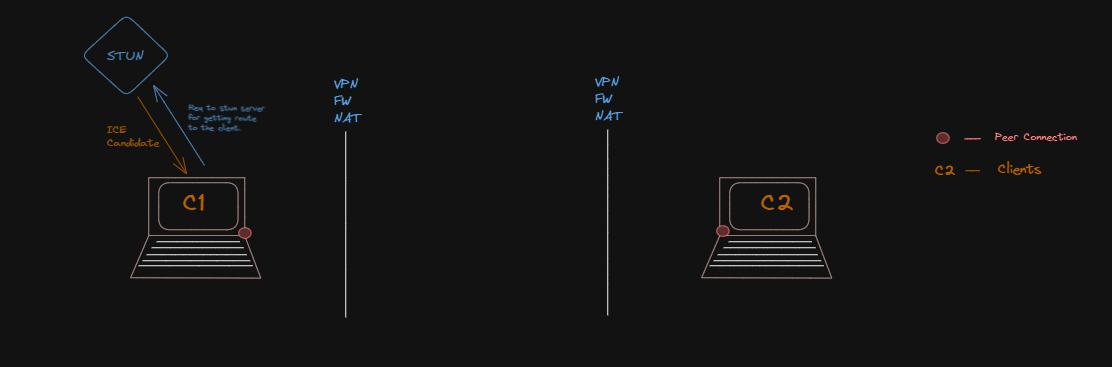
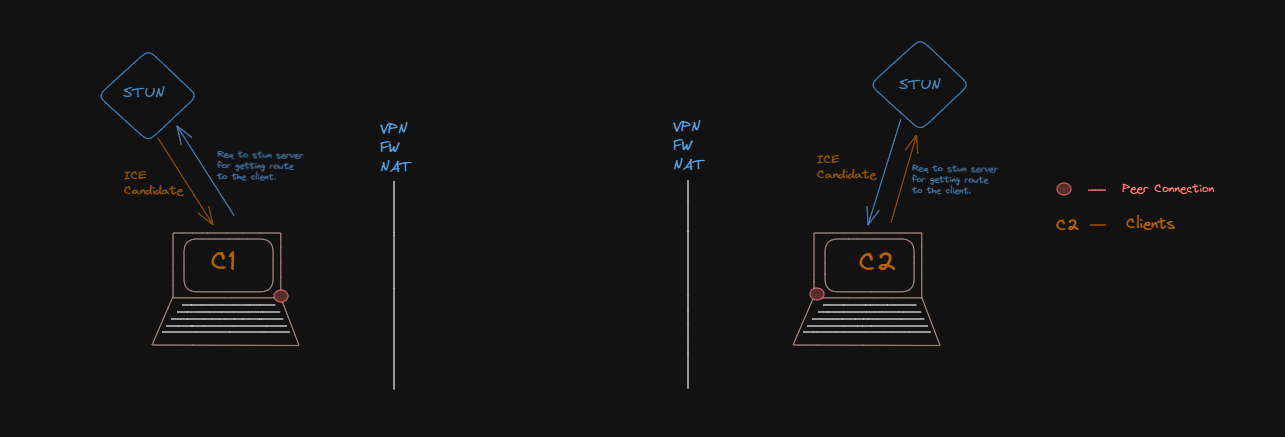
projects update 4

diff --git a/blogPosts/working-with-webRTC.md b/blogPosts/working-with-webRTC.md
@@ -5,14 +5,14 @@ slug: "working-with-webRTC"
 image: "webRTC-cover.jpg"
 excerpt: "An Introductory blog to Web Sockets - All you need to know to start working with web sockets."
 isFeatured: false
-isPublished: false
+isPublished: true
 ---
 
 ## 👋 Welcome to Working with webRTCs 🌐
 
 > _Suppose you are playing a multiplayer online game 🎮 and for some reason, you lose your network, and your game lags and after 10-12s it comes back online. Now during these 10-12s, you would have lost many data but do you want to start the game as if you pressed "𝐏𝐚𝐮𝐬𝐞 and 𝐏𝐥𝐚𝐲" or do you want it to be "𝐋𝐢𝐯𝐞" to get back to the fight._
 >
-> Which among the two would you prefer ? And I am pretty damn sure we all will be choosing "**Live**" one. Such is the use case of webRTC which stands for Real time communication for the web.
+> Which among the two would you prefer ? And I am pretty damn sure we all will be choosing "𝐋𝐢𝐯𝐞" one. Such is the use case of webRTC which stands for Real time communication for the web.
 >
 > This is the use case of UDP protocols and we want the same "𝐋𝐢𝐯𝐞" feature say in Video calling, gaming, or online video chat platforms like Omegle.
 > In these kinds of services, we don't bother to worry about the data lost during poor network connection or other issues, we just want to be up-to-date with the action.
@@ -29,10 +29,64 @@ If you are unfamiliar with the concept of protocol and its use case, you can ref
 ## 🤏 Prerequisites
 
 - If you have worked with javascript and React, then you will be good to go.
-- Basic knowledge of Nodejs, Express and web sockets. (If you don't have prior knowledge of web sockets you can refer to this **[LINK](introduction-to-websockets)**)
+- Basic knowledge of Nodejs, Express and web sockets. ( If you don't have prior knowledge of web sockets you can refer to this **[LINK](introduction-to-websockets)** ).
 - You need to have [Node](https://nodejs.org/en) installed.
 - Interest to learn something new 💡.
 - And a cup of coffee. ☕
+
+## 🤔 Questions to answer
+
+There are things we need to know or rather questions we need to ask before establishing a webRTC connection. What are those 🤔❓Let's discuss them over here.
+
+- 𝐐𝐮𝐞𝐬𝐭 1: 𝐖𝐡𝐞𝐫𝐞 𝐚𝐫𝐞 𝐲𝐨𝐮? ( 𝘊𝘭𝘪𝘦𝘯𝘵𝘴 𝘯𝘦𝘦𝘥 𝘵𝘰 𝘬𝘯𝘰𝘸 w𝘩𝘦𝘳𝘦 𝘦𝘹𝘢𝘤𝘵𝘭𝘺 𝘥𝘰𝘦𝘴 𝘩𝘦 𝘴𝘪𝘵 𝘢𝘯𝘥 𝘸𝘩𝘦𝘳𝘦 𝘥𝘰𝘦𝘴 𝘪𝘵'𝘴 𝘱𝘦𝘦𝘳 𝘤𝘭𝘪𝘦𝘯𝘵 𝘴𝘪𝘵𝘴 𝘪𝘯 𝘰𝘳𝘥𝘦𝘳 𝘵𝘰 𝘦𝘴𝘵𝘢𝘣𝘭𝘪𝘴𝘩 𝘵𝘩𝘦 𝘤𝘰𝘯𝘯𝘦𝘤𝘵𝘪𝘰𝘯. )
+
+- 𝐐𝐮𝐞𝐬𝐭 2: 𝐖𝐡𝐚𝐭 𝐚𝐫𝐞 𝐲𝐨𝐮 𝐬𝐞𝐧𝐝𝐢𝐧𝐠? ( 𝘕𝘦𝘦𝘥 𝘤𝘰𝘮𝘮𝘶𝘯𝘪𝘤𝘢𝘵𝘪𝘰𝘯 𝘣𝘦𝘵𝘸𝘦𝘦𝘯 𝘊𝘭𝘪𝘦𝘯𝘵𝘴 𝘴𝘰 𝘵𝘩𝘢𝘵 𝘵𝘩𝘦𝘺 𝘢𝘳𝘦 𝘢𝘸𝘢𝘳𝘦 𝘰𝘧 𝘵𝘩𝘦 𝘸𝘢𝘺 𝘵𝘩𝘦𝘺 𝘯𝘦𝘦𝘥 𝘵𝘰 𝘤𝘰𝘯𝘯𝘦𝘤𝘵 𝘢𝘯𝘥 𝘵𝘩𝘦 𝘥𝘢𝘵𝘢 𝘰𝘯𝘦 𝘪𝘴 𝘴𝘦𝘯𝘥𝘪𝘯𝘨. )
+
+![Questions to answer](/blogs/working-with-webRTC/questions-why-webrtc.png)
+
+In order to establish a connection _( we will term this as "**Peer Connection**" )_, Clients should be aware of their public IP address which they are actually aware of. Now can we get the IP address ? Answer is "**NO**". Why you ask ? Because of something known as **NAT** ( Network Address Translation ).
+
+By sharing a single IP address among multiple computers on a local network, NAT conserves the limited number of publicly routable IPv4 addresses. NAT also provides a layer of security for private networks because it hides devices' actual IP addresses behind a single public IP address. So , it is being basically masked behind NAT.
+
+![Nat-masking-IP](/blogs/working-with-webRTC/client-pc.png)
+
+For better explanation, let's say that you have got three devices, a mac machine, an android mobile and a iPad connected to a router which is connected to the internet.
+
+Now your router is aware of the public IP address. When multiple devices are connected to a router, they often share a single public IP address. This process is called Network Address Translation (NAT). The router assigns each connected device a private IP address within the local network, and it keeps track of these addresses.
+
+When a device from the local network wants to communicate with the internet, the router replaces the private IP address of the device with its own public IP address before sending the request to the internet. The router then maintains a table to keep track of the translations, ensuring that responses from the internet are correctly directed back to the originating device within the local network.
+
+![Nat-masking-IP](/blogs/working-with-webRTC/getting-public-ip.png)
+
+Can we construct a way such that devices can establish peer connection with other devices ? The Answer is "**YES**". How you ask ? Let's take it up from here on...
+
+## 🌐 Getting Public IP.
+
+There can a discussion on why do we need public IP addresses right ? Well, lets take an analogy for this.
+
+> Suppose I have recently moved out to New Jersey and my parents are visiting my home for the first time. They called me and asked me where exactly do I live. Usually I call it "𝐇𝐨𝐦𝐞". I told similarly to me father also and got a scolding from him. Idiot! I also call my home as "𝐇𝐨𝐦𝐞". Don't tell me your private IP address but your Public IP address. Then I called up directory guy and asked him what is my public IP address. He then answered with _"1313 Manchester St Toms River, New Jersey"_.
+>
+> You see, private IP address are provided to you by router and can be same for any other devices connected with some other router sitting in Japan.This is not reliable and may create issues while connecting. So we require public IP address.
+
+**STUN Servers** - Session Traversal Utilities for NAT. They are servers that help devices discover their public IP addresses and navigate the complexities introduced by NAT, enabling efficient communication over the internet, especially in real-time communication applications. There are a bunch of STUN servers and almost all are free or very negligible cost. Ex:- Google Stun Server, twilio Stun server etc.
+
+Here's a list of [STUN servers](https://gist.github.com/zziuni/3741933) you could refer to.
+
+How do they work ?
+
+Well, the device ( Peer Connection ) sends a Request to the STUN server. It will be like _"Hey Stun!, Sup ? Well you know my parents are coming home and they need my address to get to me. But I don't know my public address. Can you figure out a way to do so ?"_
+
+**ICE Candidates** : Stands for Interactive Connectivity Establishment. Stun server will then respond with an ICE candidate. ICE is commonly used in real-time communication applications, such as WebRTC, to establish direct peer-to-peer connections between devices, even when they are behind Network Address Translation (NAT) routers.
+
+It is just a fancy way of telling : _"Hey Dad! here's how you can get to me. I am sending a person (ICE candidate), just follow him and he will help you get to me."_
+
+Any request with that ICE candidate will redirect the network back to the client. Hence estavlishing a way to get to the client.
+
+![Nat-masking-IP](/blogs/working-with-webRTC/stun-ice-candidate.png)
+
+Similarly, the other client will also send a request to STUN server and get it's ICE candidate so that it is also aware of it's own public IP address.
+
+![Nat-masking-IP](/blogs/working-with-webRTC/stun-ice.png)
 
 ## 🤩 Congratulations! You did it 🔥🔥
 
